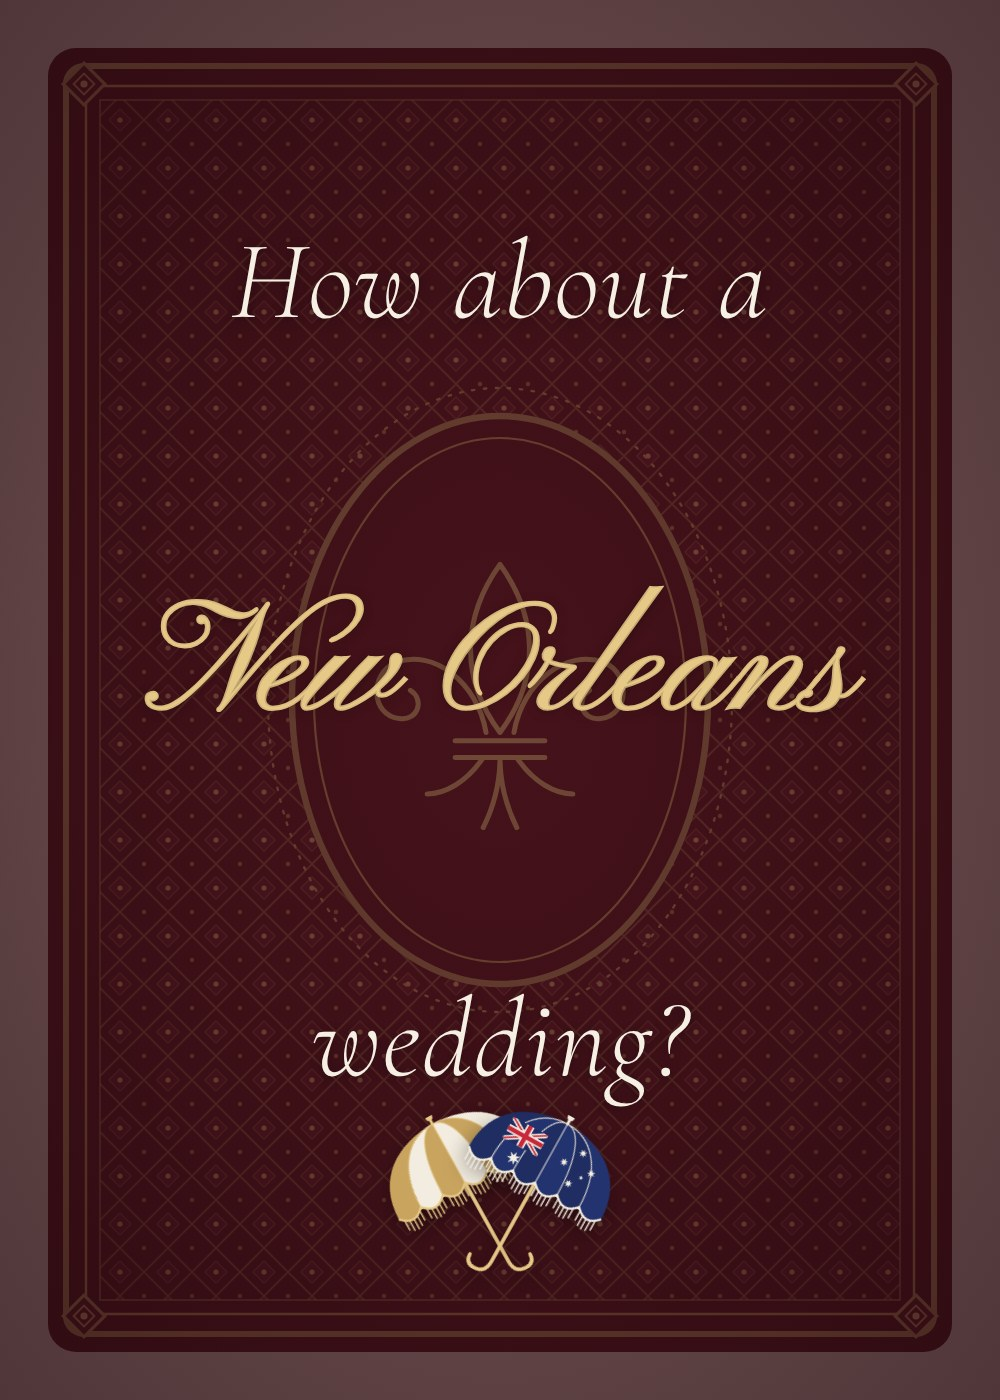
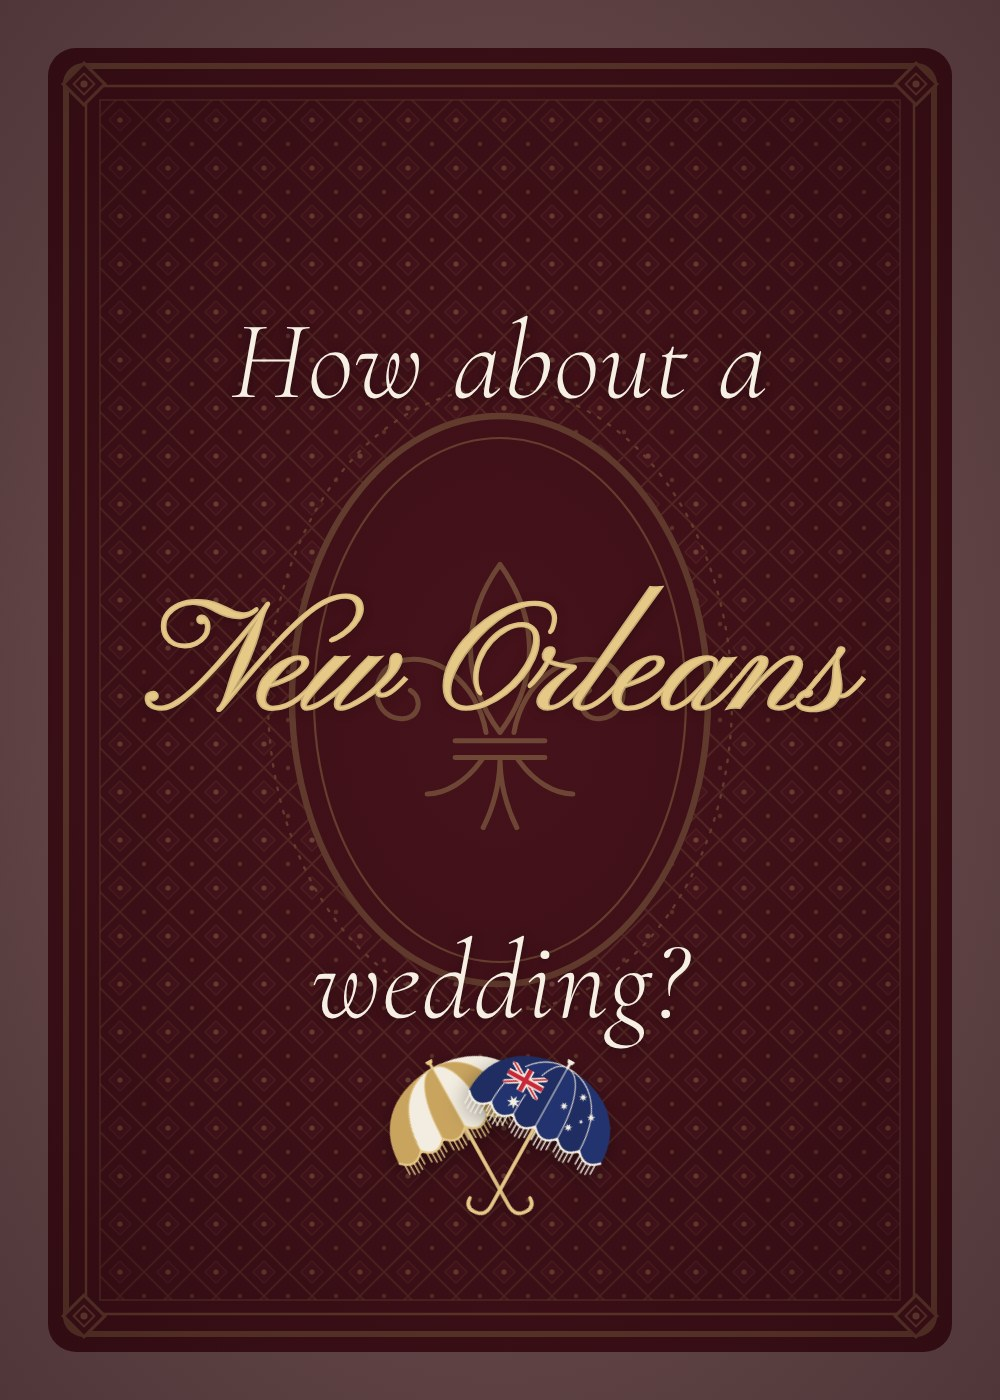
Preview: close the gaps around New Orleans (position unchanged)
Claude-Session: https://claude.ai/code/session_016KBQnmGzJaodTgtuWJa9K5

diff --git a/tools/make-previews.js b/tools/make-previews.js
@@ -94,7 +94,7 @@ const titleHTML = OI
 const FONTS = `<link href="https://fonts.googleapis.com/css2?family=Pinyon+Script&family=Cormorant+Garamond:ital,wght@0,300;0,400;0,500;1,300;1,400;1,500${SUP.gf ? "&family=" + SUP.gf : ""}&display=swap" rel="stylesheet">`;
 // Card-shaped (5:7) preview: the card back edge to edge.
 const portrait = `<!doctype html><html><head>${FONTS}<style>*{margin:0}body{width:1000px;height:1400px;overflow:hidden;position:relative;background:#efe9dd}
-svg.art{width:100%;height:100%;display:block}${OI ? titleCSS(1, CROSSED ? {compact: true, a: 282, no: 672, wed: 1040, cross: 1246} : {compact: true, a: 312, no: 700, wed: 1078}) : titleCSS(1, {a: 285, no: 700, wed: 1125})}</style></head>
+svg.art{width:100%;height:100%;display:block}${OI ? titleCSS(1, CROSSED ? {compact: true, a: 362, no: 672, wed: 982, cross: 1190} : {compact: true, a: 312, no: 700, wed: 1078}) : titleCSS(1, {a: 285, no: 700, wed: 1125})}</style></head>
 <body>${defs}<svg class="art" viewBox="0 0 250 350"><use href="#cardback"/></svg>${titleHTML}</body></html>`;
 (async () => {
   const browser = await chromium.launch();
